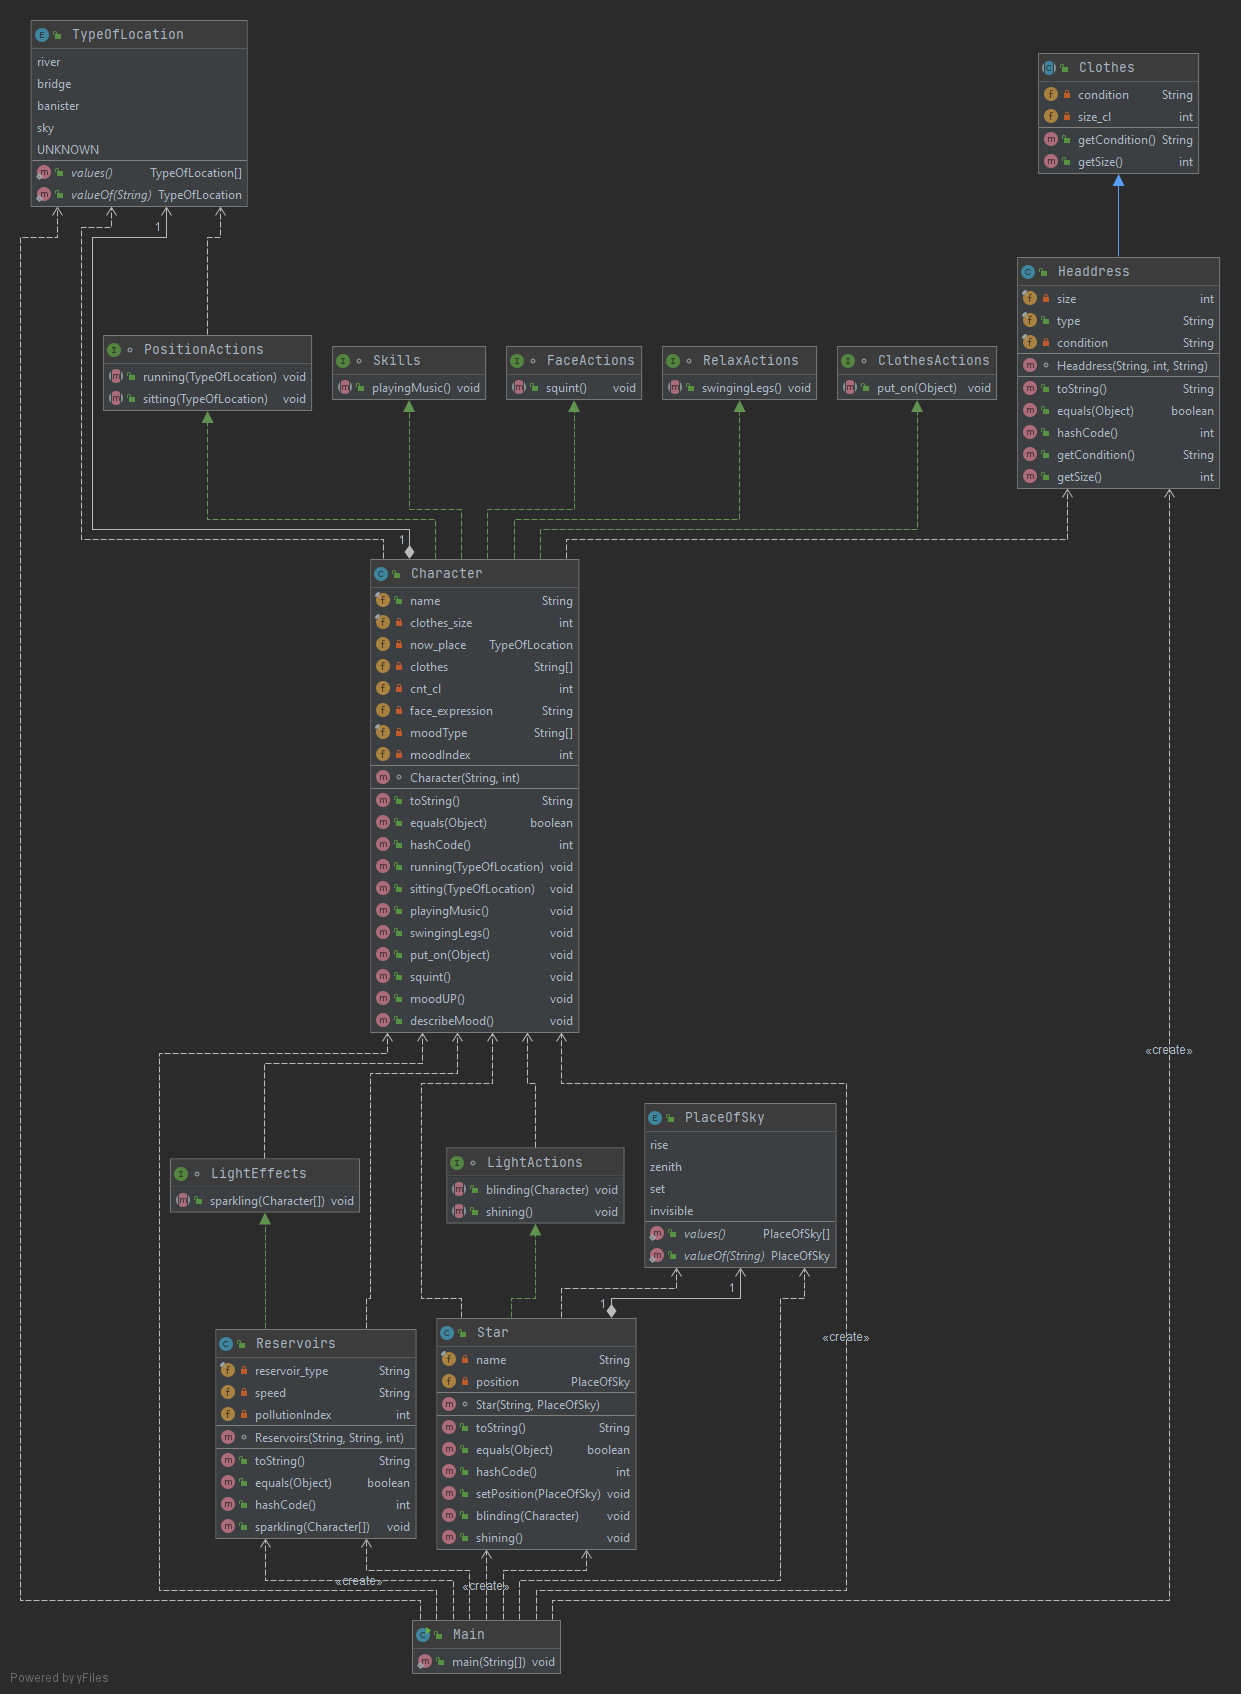
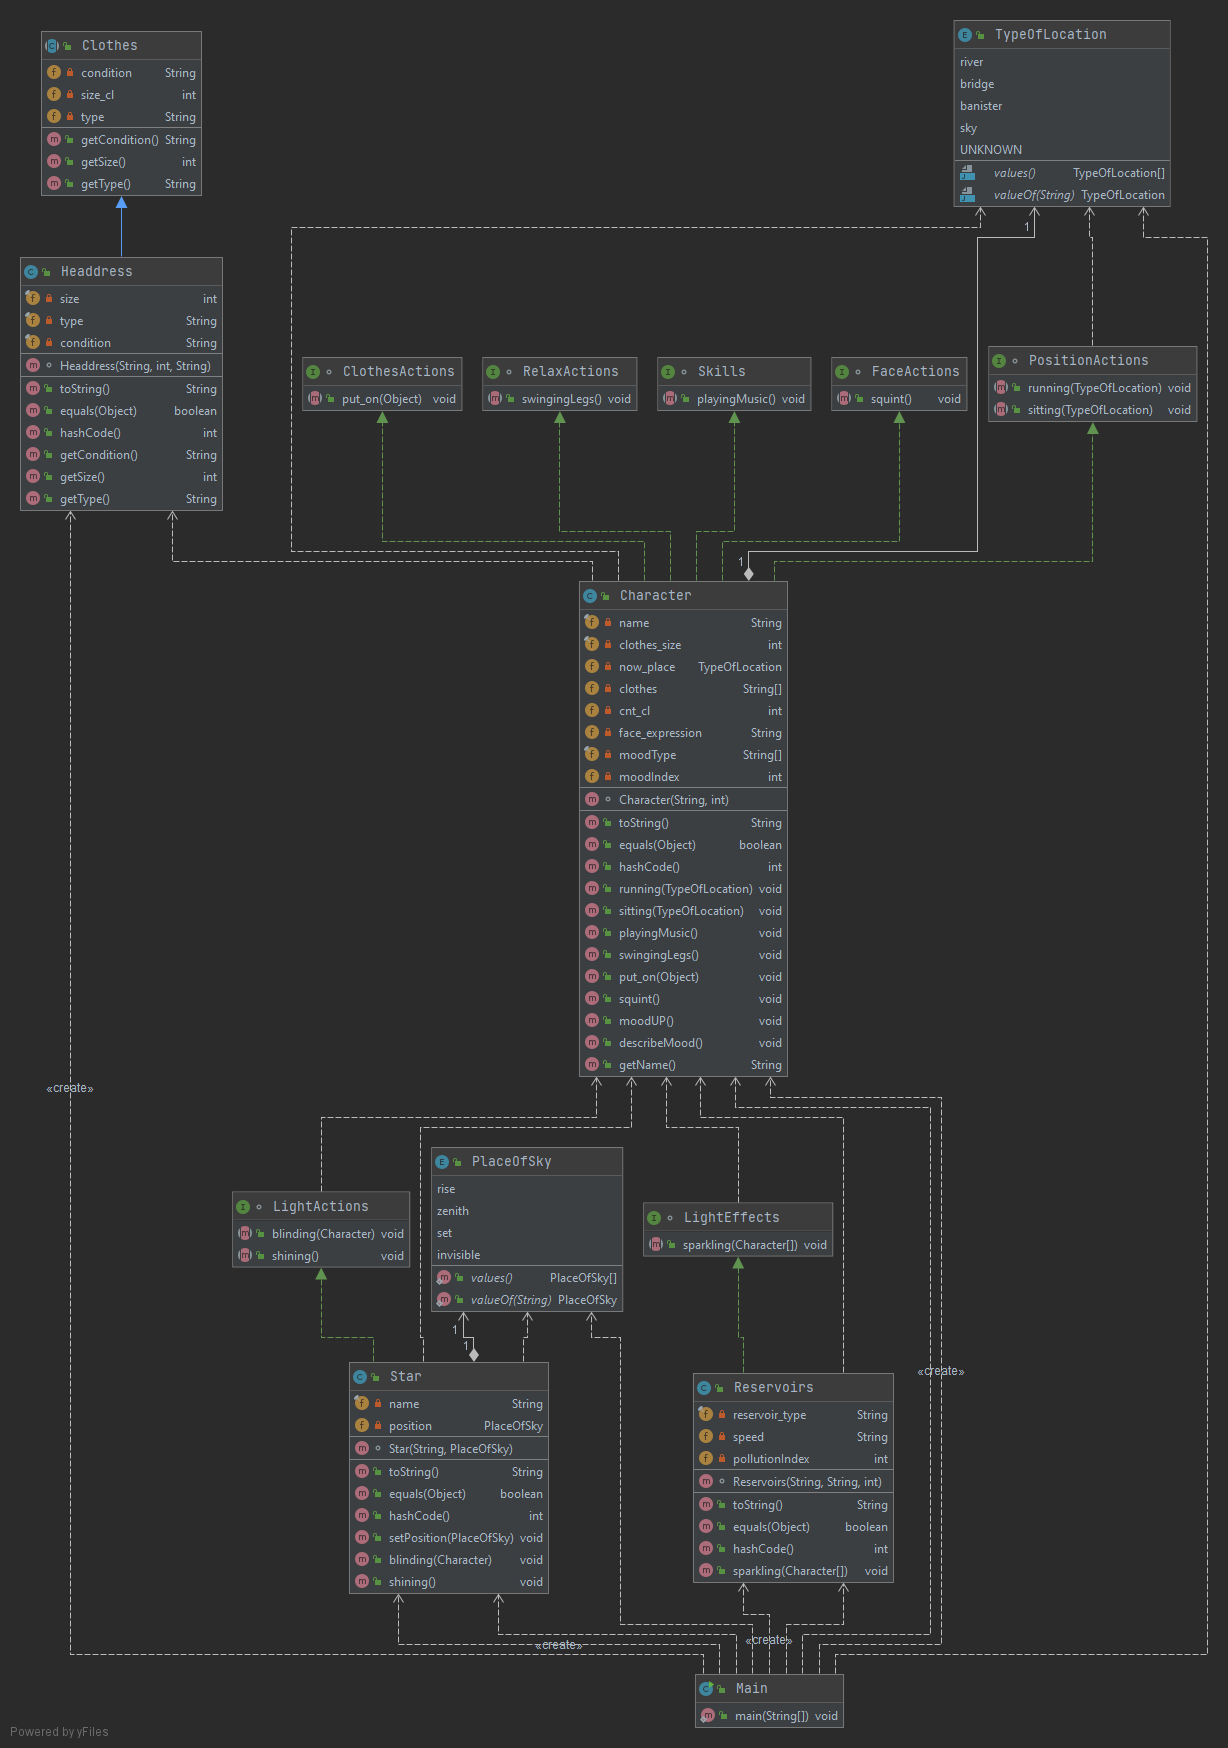
Add files via upload

diff --git a/src/fairytale/Character.java b/src/fairytale/Character.java
@@ -2,7 +2,7 @@ package fairytale;
 import java.util.Objects;
 
 public class Character implements Skills, RelaxActions, PositionActions, ClothesActions, FaceActions  {
-    public final String name;
+    private final String name;
     private final int clothes_size;
     private TypeOfLocation now_place = TypeOfLocation.UNKNOWN;
     private String[] clothes = new String[10];
@@ -72,11 +72,11 @@ public class Character implements Skills, RelaxActions, PositionActions, Clothes
             Headdress thing = (Headdress) obj;
             if (thing.getSize() >= clothes_size) {
                 if(cnt_cl < 10){
-                    clothes[cnt_cl] = thing.type;
+                    clothes[cnt_cl] = thing.getType();
                     cnt_cl++;
-                    System.out.println(name + " put on the " + thing.type);
+                    System.out.println(name + " put on the " + thing.getType());
                 }else{
-                    System.out.println(name + " can't put on the " + thing.type + ". Too many clothes.");
+                    System.out.println(name + " can't put on the " + thing.getType() + ". Too many clothes.");
                 }
             }
         }
@@ -94,4 +94,6 @@ public class Character implements Skills, RelaxActions, PositionActions, Clothes
     public void describeMood(){
         System.out.println(name + " is in a " + moodType[moodIndex] + " mood");
     }
+
+    public String getName(){return name;}
 }

diff --git a/src/fairytale/Main.java b/src/fairytale/Main.java
@@ -1,5 +1,4 @@
 /*
-91329
 Муми-тролль побежал прямо на музыку и внизу у реки увидел Снусмумрика.
 Тот сидел на перилах моста, нахлобучив на лоб свою старую шляпу, и болтал над водой ногами.
 Солнце только что поднялось над верхушками деревьев и светило им прямо в лицо.

diff --git a/src/fairytale/Headdress.java b/src/fairytale/Headdress.java
@@ -4,7 +4,7 @@ import java.util.Objects;
 
 public class Headdress extends Clothes{
     private final int size;
-    public final String type;
+    private final String type;
     private final String condition;
 
     Headdress(String type, int size, String condition) {
@@ -40,4 +40,7 @@ public class Headdress extends Clothes{
     public int getSize() {
         return size;
     }
+
+    @Override
+    public String getType(){return type;}
 }

diff --git a/src/fairytale/Clothes.java b/src/fairytale/Clothes.java
@@ -3,6 +3,7 @@ package fairytale;
 public abstract class Clothes {
     private String condition;
     private int size_cl;
+    private String type;
 
     public String getCondition() {
         return condition;
@@ -10,5 +11,9 @@ public abstract class Clothes {
 
     public int getSize(){
         return size_cl;
+    }
+
+    public String getType(){
+        return type;
     }
 }

diff --git a/src/fairytale/Star.java b/src/fairytale/Star.java
@@ -42,7 +42,7 @@ public class Star implements LightActions{
     @Override
     public void blinding(Character hero) {
         hero.squint();
-        System.out.println(hero.name + " is squinting because of the " + name);
+        System.out.println(hero.getName() + " is squinting because of the " + name);
     }
 
     @Override
